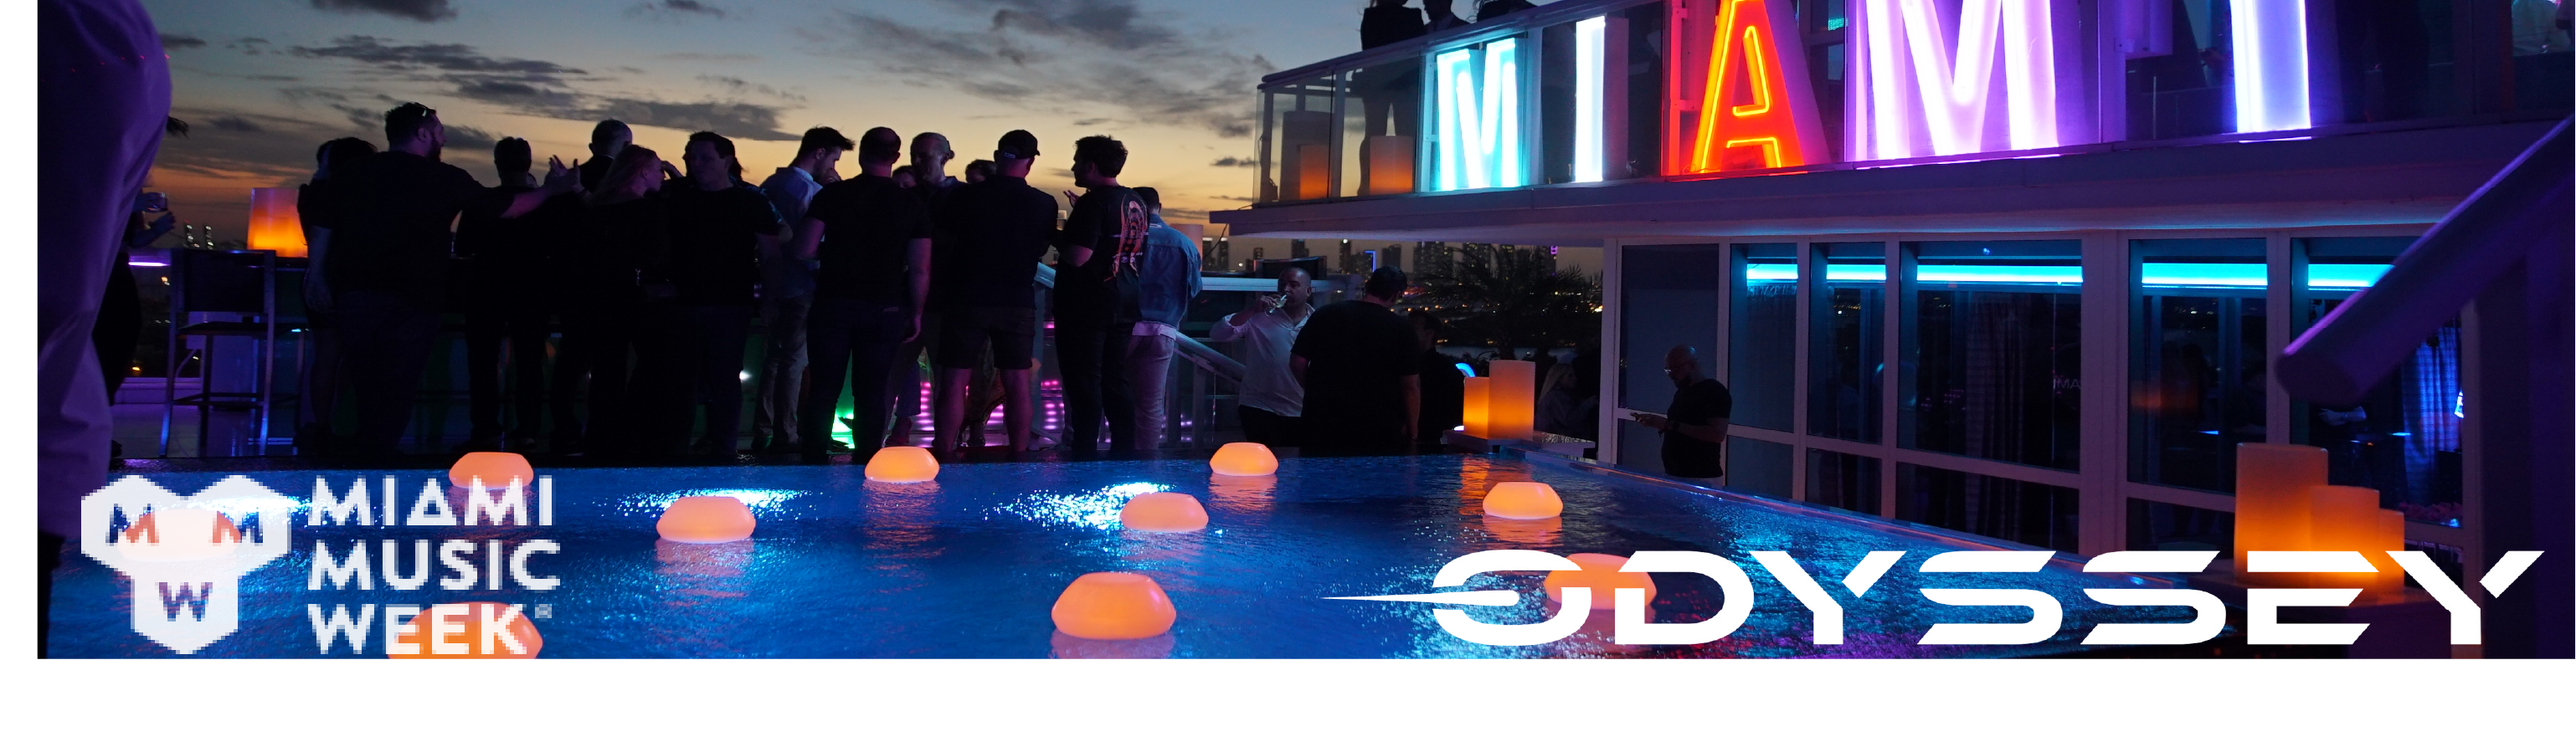
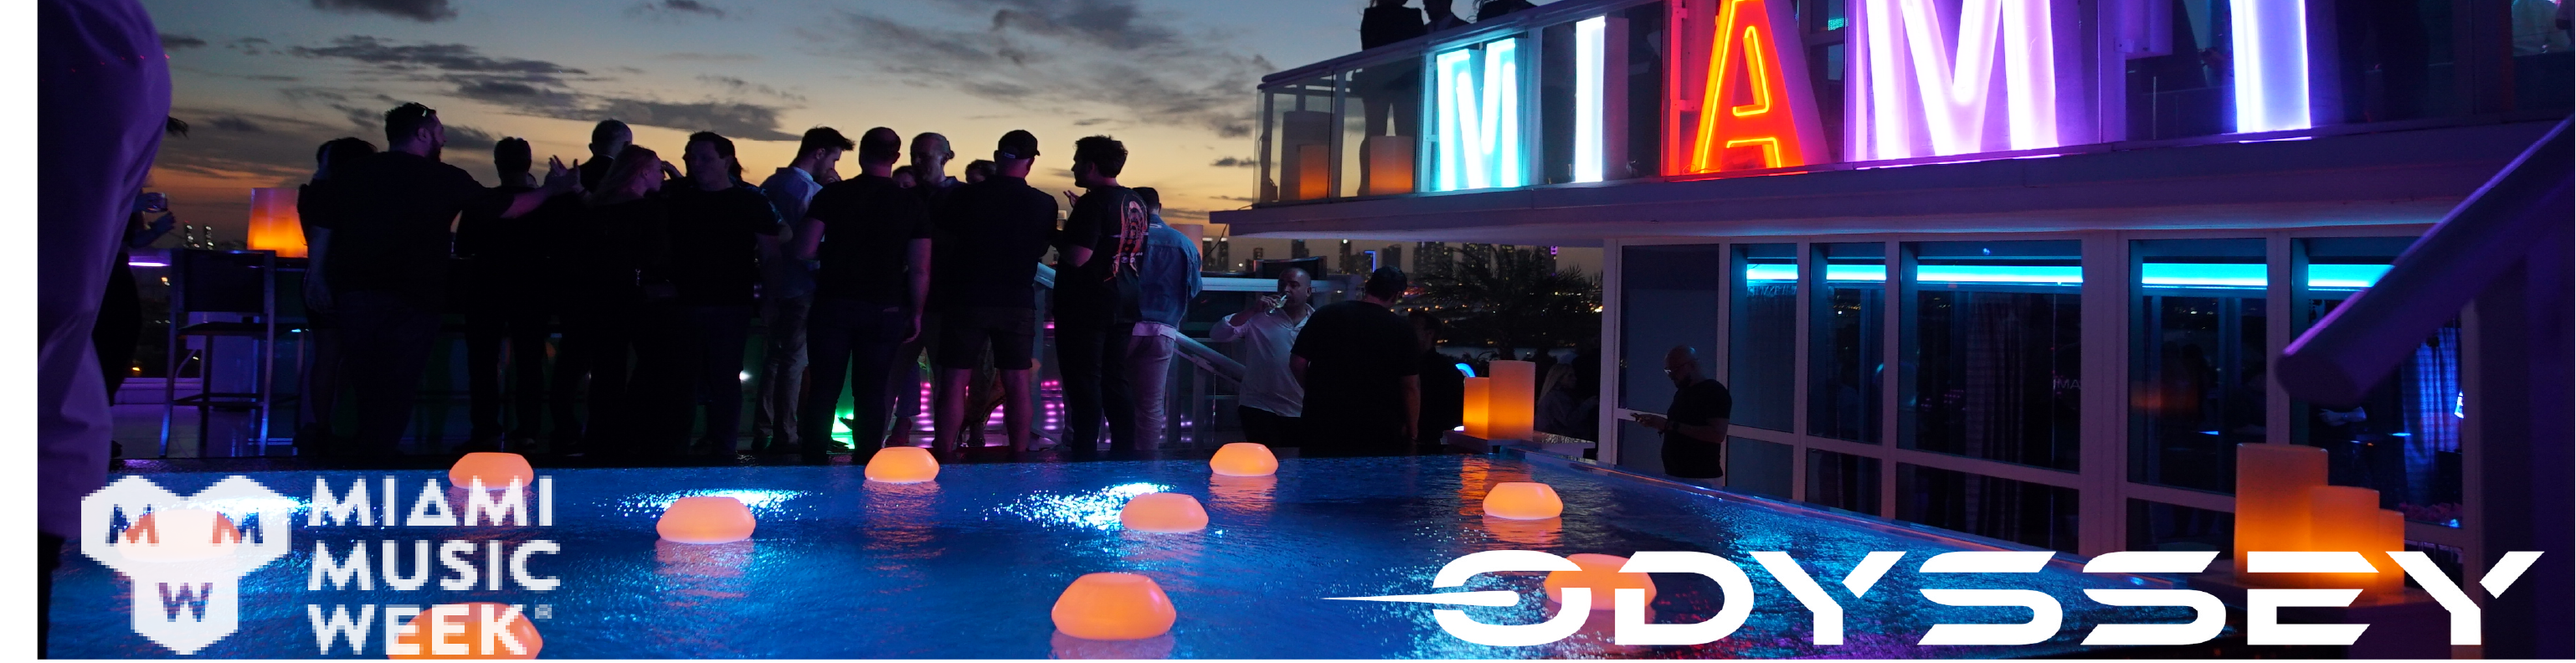
Crop hero image whitespace and display at natural aspect ratio
Trimmed transparent/white bottom padding from the PNG source.
Display image at full width with natural height so it fills
the rounded card without cropping or black bars.

diff --git a/src/App.jsx b/src/App.jsx
@@ -76,11 +76,11 @@ function Landing({ setUser, setIsAdmin }) {
               Your private concierge hub for Miami Music Week and Ultra.
             </p>
           </div>
-          <div className="overflow-hidden rounded-2xl border border-white/10 shadow-luxe-card bg-black">
+          <div className="overflow-hidden rounded-2xl border border-white/10 shadow-luxe-card">
             <img
               src="/ultra-hero.png"
               alt="Ultra Miami skyline"
-              className="w-full h-44 sm:h-56 object-cover object-top"
+              className="w-full h-auto block"
             />
           </div>
           <div className="grid gap-4 sm:grid-cols-[1fr_auto] sm:items-stretch">

diff --git a/src/GuestDashboard.jsx b/src/GuestDashboard.jsx
@@ -30,11 +30,11 @@ export default function GuestDashboard({ guest }) {
     <div className="page-shell animate-fade">
       <div className="page-container">
         <TopNav />
-        <div className="mt-8 overflow-hidden rounded-2xl border border-white/10 shadow-luxe-card bg-black">
+        <div className="mt-8 overflow-hidden rounded-2xl border border-white/10 shadow-luxe-card">
           <img
             src="/ultra-hero.png"
             alt="Ultra Miami skyline"
-            className="w-full h-48 sm:h-64 object-cover object-top"
+            className="w-full h-auto block"
           />
         </div>
         <div className="mb-12 flex flex-col gap-5">
